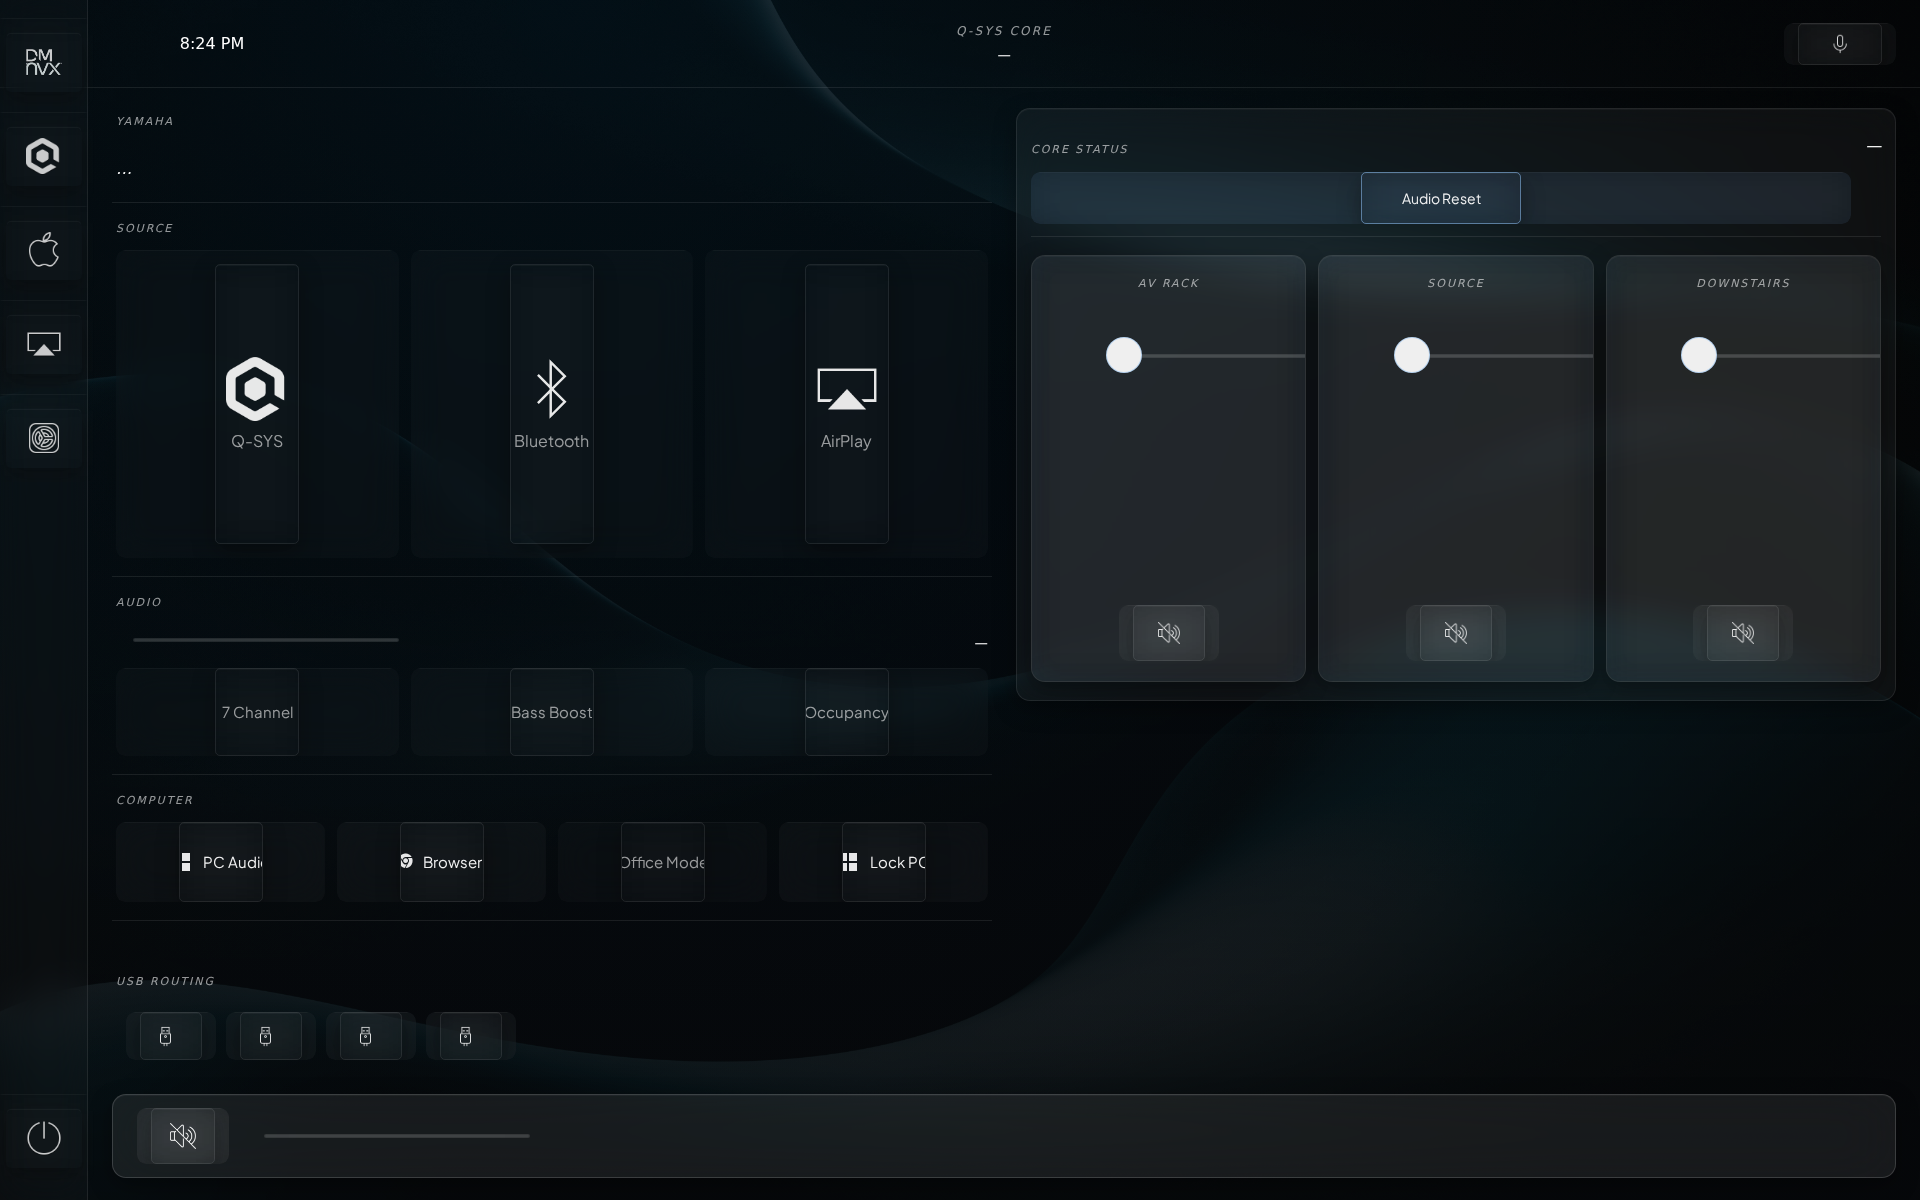
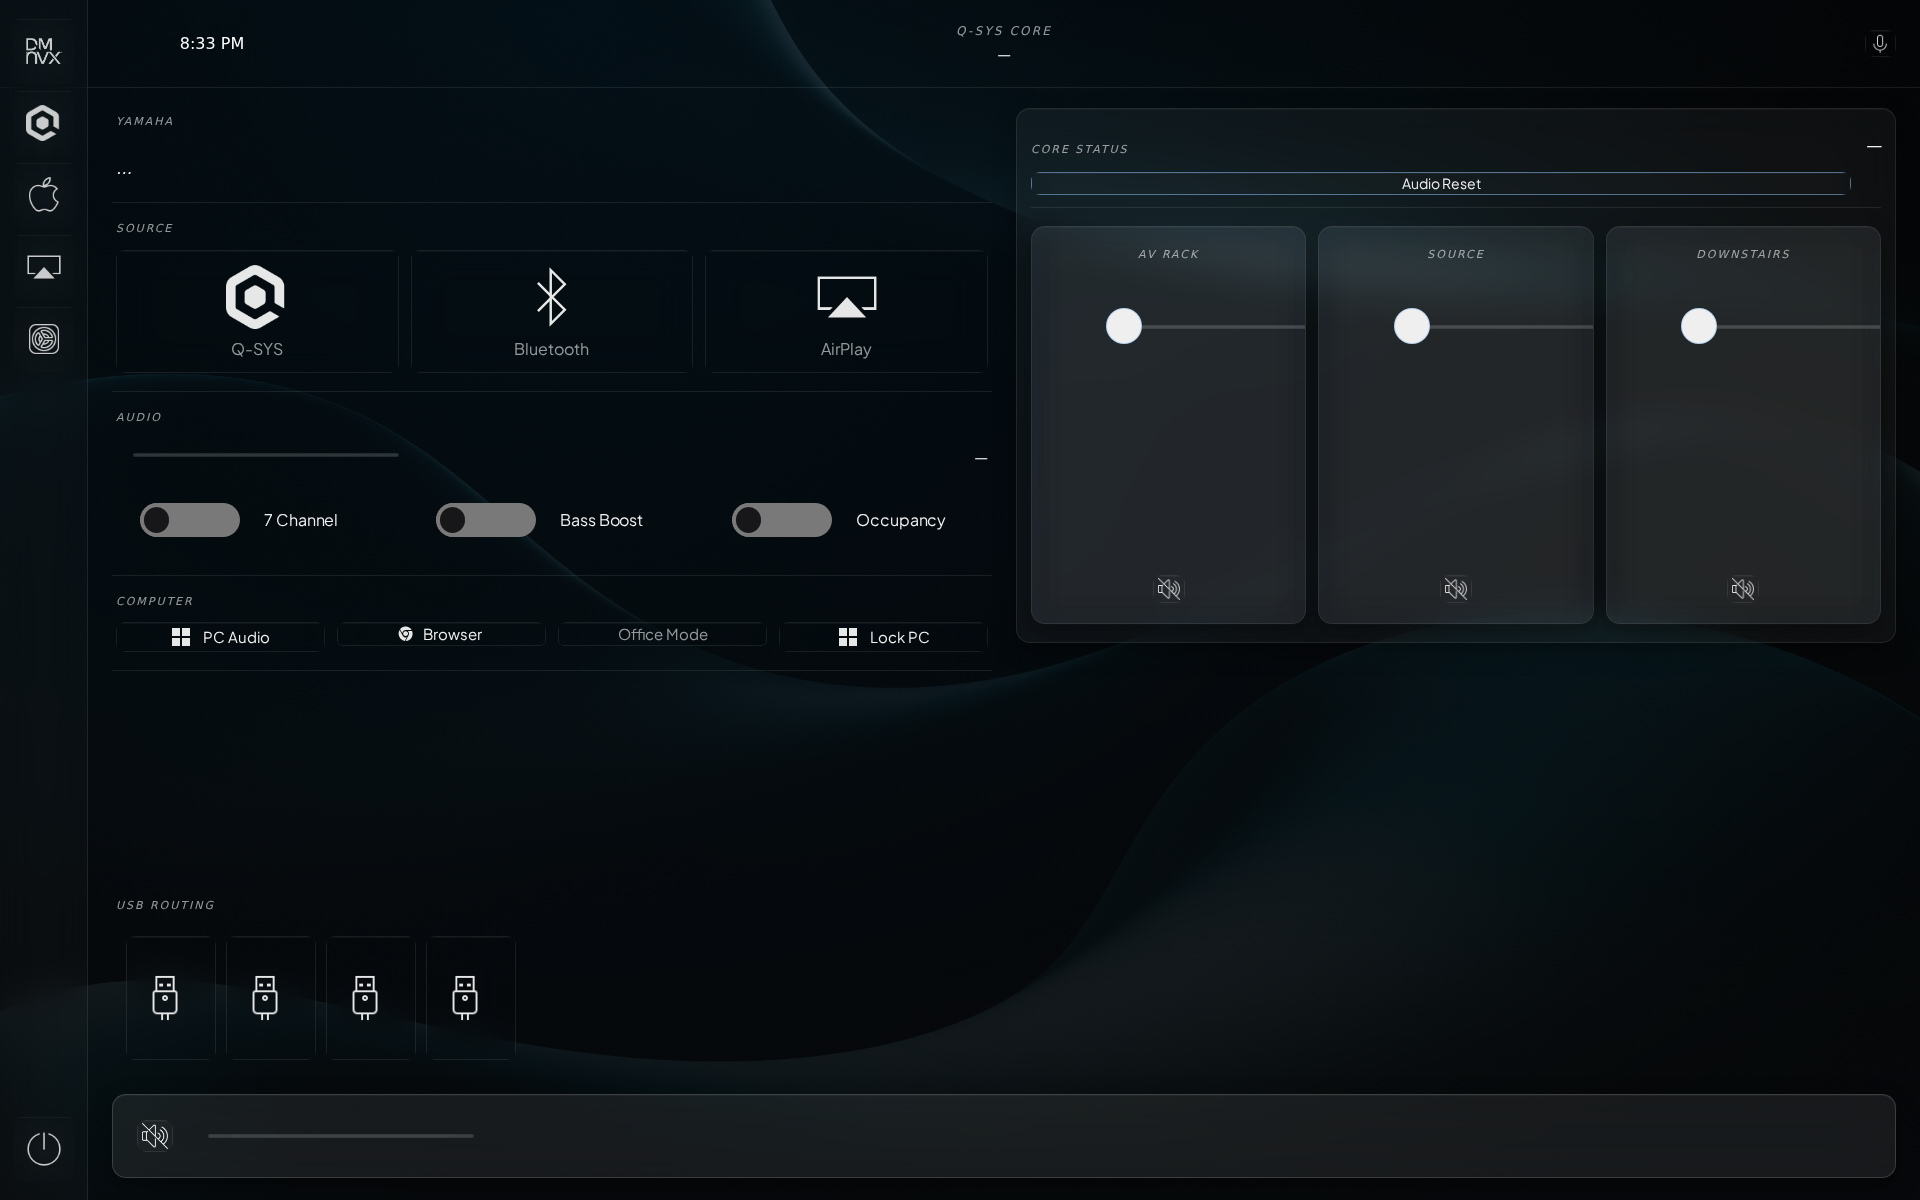
fix: collapse double-rectangle + iOS toggles + bigger USB strip
Three issues addressed in this pass:

1. Double-rectangle button look (the user's main complaint):
   The CH5 button host renders an outer div + inner button. My CSS
   was applying background, border, padding, and shadow to BOTH layers
   — producing two visible rectangles for every button. Collapsed to
   single layer: outer .ch5-button div is now fully transparent (no
   bg, no border, no shadow, no padding); all visual chrome lives on
   the inner .cb-btn only.

2. Audio toggles converted to iOS-style switches:
   Replaced the 3 toggle pill ch5-buttons with native ch5-toggle
   components arranged as switch + label rows. Three columns evenly
   spaced. Custom styling on ch5-toggle: 56x32 px track, soft hairline
   border, rgba(120,180,255,0.4) on-state with full accent border.
   Office Mode in the Computer row stays a button toggle (mixed row
   stays consistent).

3. USB Routing made bigger (heavily-used by user):
   Bumped --ch5-button--regular-height from 88 to 124 px. Forced inner
   DOM (.cb-btn) to honor the height via !important. Image bumped 30
   to 48 px. This is the panel's mouse/keyboard routing — it gets used
   constantly so big touch targets matter.

https://claude.ai/code/session_01WRb1v93YRqTBmHjK1Eeiv2

diff --git a/app/project/components/pages/mainpage/mainpage.scss b/app/project/components/pages/mainpage/mainpage.scss
@@ -261,11 +261,49 @@
   --ch5-button--default-selected-label-font-color: var(--text);
 }
 
-/* Toggle pill — fills cell at ~290 wide × 88 tall (proportional, not stretched). */
-.seg-3--toggles .seg-btn--toggle,
+/* Toggle pill — used for Office Mode in the Computer row only. */
 .seg-btn--toggle {
-  --ch5-button--regular-height: 88px;
+  --ch5-button--regular-height: 80px;
   --ch5-button--regular-font-size: 15px;
+}
+
+/* iOS-style switch row: small switch + label inline.
+   Three columns evenly distributed across the section width. */
+.toggle-row {
+  display: grid;
+  grid-template-columns: repeat(3, 1fr);
+  gap: 16px;
+  align-items: center;
+}
+
+.toggle-row__item {
+  display: flex;
+  align-items: center;
+  gap: 14px;
+  padding: 10px 14px;
+  cursor: pointer;
+  user-select: none;
+}
+
+.toggle-row__label {
+  font-family: var(--font-sans);
+  font-weight: 400;
+  font-size: 16px;
+  color: var(--text);
+  letter-spacing: -0.005em;
+}
+
+/* Small switch styling — track + thumb with cool-cyan accent when on */
+.toggle-row ch5-toggle {
+  --ch5-toggle--width: 56px;
+  --ch5-toggle--height: 32px;
+  --ch5-toggle--background-color: rgba(255, 255, 255, 0.06);
+  --ch5-toggle--border-color: var(--hairline);
+  --ch5-toggle--knob-color: rgba(255, 255, 255, 0.85);
+  --ch5-toggle--on-background-color: rgba(120, 180, 255, 0.4);
+  --ch5-toggle--on-border-color: var(--accent);
+  --ch5-toggle--on-knob-color: var(--text);
+  flex-shrink: 0;
 }
 
 /* Action button — fills 4-up cell at ~210 wide × 80 tall. */
@@ -281,13 +319,35 @@
   --ch5-button--default-selected-border-color: var(--accent-soft);
 }
 
-/* USB strip — buttons fill row */
+/* USB strip — heavily used set, large touch targets (124 px tall).
+   ch5-button-list sets fixed dimensions on its inner buttons; we
+   override --ch5-button--regular-height AND force the inner DOM via
+   selectors so the buttons actually grow. */
+.lh-usb {
+  padding-bottom: 4px;
+}
+
 .lh-usb ch5-button-list {
   --ch5-button-list--orientation: horizontal;
   --ch5-button--regular-width: 100%;
-  --ch5-button--regular-height: 88px;
-  --ch5-button--regular-image-width: 30px;
-  --ch5-button--regular-image-height: 30px;
+  --ch5-button--regular-height: 124px;
+  --ch5-button--regular-image-width: 48px;
+  --ch5-button--regular-image-height: 48px;
+  --ch5-button--regular-font-size: 15px;
+  display: block;
+  width: 100%;
+}
+
+.lh-usb ch5-button-list ch5-button {
+  --ch5-button--regular-height: 124px;
+  --ch5-button--regular-image-width: 48px;
+  --ch5-button--regular-image-height: 48px;
+  height: 124px !important;
+}
+
+.lh-usb ch5-button-list ch5-button .cb-btn {
+  height: 124px !important;
+  padding: 18px 14px !important;
 }
 
 /* ============================================================

diff --git a/app/project/components/pages/mainpage/mainpage.html b/app/project/components/pages/mainpage/mainpage.html
@@ -151,25 +151,29 @@
         </span>
       </div>
 
-      <div class="seg-3 seg-3--toggles">
-        <ch5-button
-            class="seg-btn seg-btn--toggle"
-            shape="rounded-rectangle"
-            sendeventontouch="50" receivestateselected="50"
-            label="7 Channel">
-        </ch5-button>
-        <ch5-button
-            class="seg-btn seg-btn--toggle"
-            shape="rounded-rectangle"
-            sendeventontouch="47" receivestateselected="47"
-            label="Bass Boost">
-        </ch5-button>
-        <ch5-button
-            class="seg-btn seg-btn--toggle"
-            shape="rounded-rectangle"
-            sendeventontouch="11" receivestateselected="11"
-            label="Occupancy">
-        </ch5-button>
+      <!-- iOS-style switch toggles with label beside each -->
+      <div class="toggle-row">
+        <label class="toggle-row__item">
+          <ch5-toggle
+              sendeventonclick="50" receivestatevalue="50"
+              labelon="" labeloff="">
+          </ch5-toggle>
+          <span class="toggle-row__label">7 Channel</span>
+        </label>
+        <label class="toggle-row__item">
+          <ch5-toggle
+              sendeventonclick="47" receivestatevalue="47"
+              labelon="" labeloff="">
+          </ch5-toggle>
+          <span class="toggle-row__label">Bass Boost</span>
+        </label>
+        <label class="toggle-row__item">
+          <ch5-toggle
+              sendeventonclick="11" receivestatevalue="11"
+              labelon="" labeloff="">
+          </ch5-toggle>
+          <span class="toggle-row__label">Occupancy</span>
+        </label>
       </div>
     </section>
 

diff --git a/app/project/assets/scss/custom-themes/office-v3-theme.css b/app/project/assets/scss/custom-themes/office-v3-theme.css
@@ -193,18 +193,32 @@ ch5-button {
   overflow: hidden;
 }
 
-/* Center the icon + label stack inside every ch5-button. By default
-   CH5 left-aligns its content; we want the icon and label centered. */
-ch5-button .cb-btn,
-ch5-button .ch5-button {
+/* All visual styling lives on .cb-btn (the inner <button>), not on the
+   outer <div class="ch5-button">. This avoids the "double rectangle"
+   effect where both the parent div and the child button render their
+   own background + border + padding. The parent div is fully
+   transparent and acts only as a sizing wrapper. */
+ch5-button > div.ch5-button {
+  background: transparent !important;
+  background-color: transparent !important;
+  background-image: none !important;
+  border: 0 !important;
+  box-shadow: none !important;
+  padding: 0 !important;
+  -webkit-backdrop-filter: none !important;
+  backdrop-filter: none !important;
+}
+
+/* Center the icon + label stack inside the inner button. */
+ch5-button .cb-btn {
   display: flex !important;
   flex-direction: row;
   align-items: center;
   justify-content: center;
   gap: 8px;
   text-align: center;
-  width: 100%;
-  height: 100%;
+  width: 100% !important;
+  height: 100% !important;
   padding: 0 14px;
   -webkit-backdrop-filter: blur(var(--blur));
   backdrop-filter: blur(var(--blur));
@@ -213,8 +227,7 @@ ch5-button .ch5-button {
 }
 
 /* When iconposition=top, stack vertically with the icon above the label */
-ch5-button[iconposition="top"] .cb-btn,
-ch5-button[iconposition="top"] .ch5-button {
+ch5-button[iconposition="top"] .cb-btn {
   flex-direction: column;
   gap: 10px;
   padding: 14px 12px;
